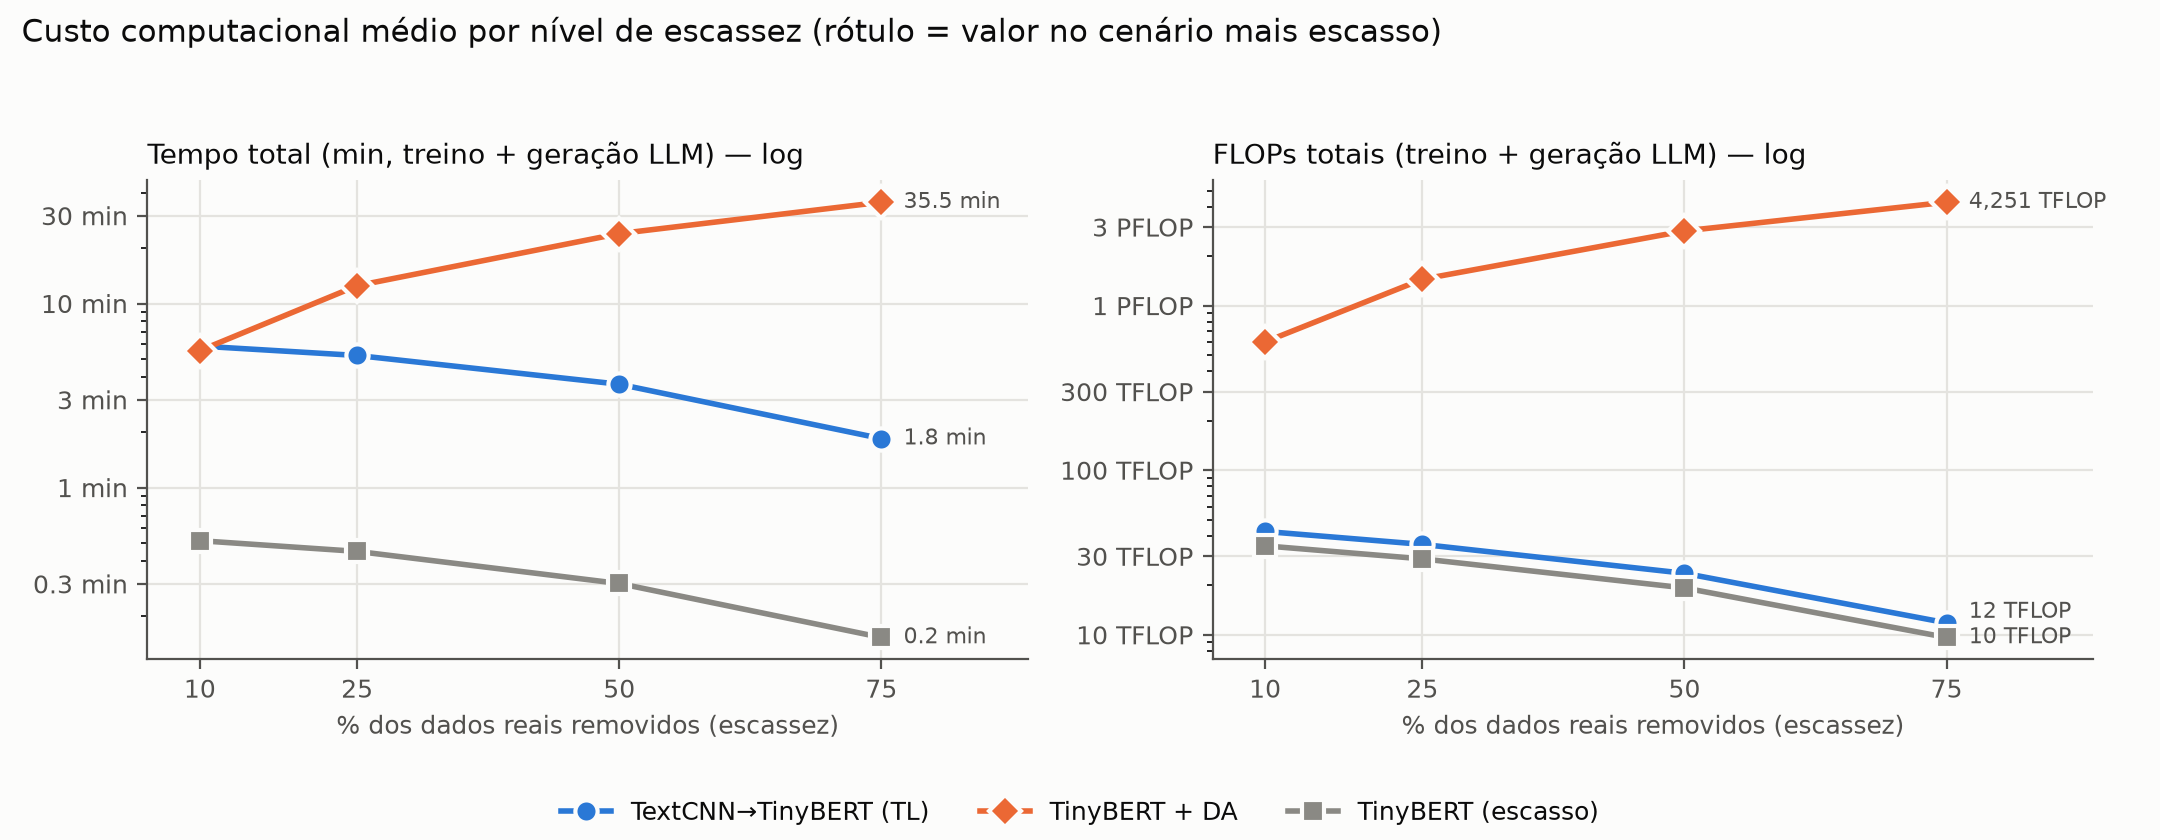
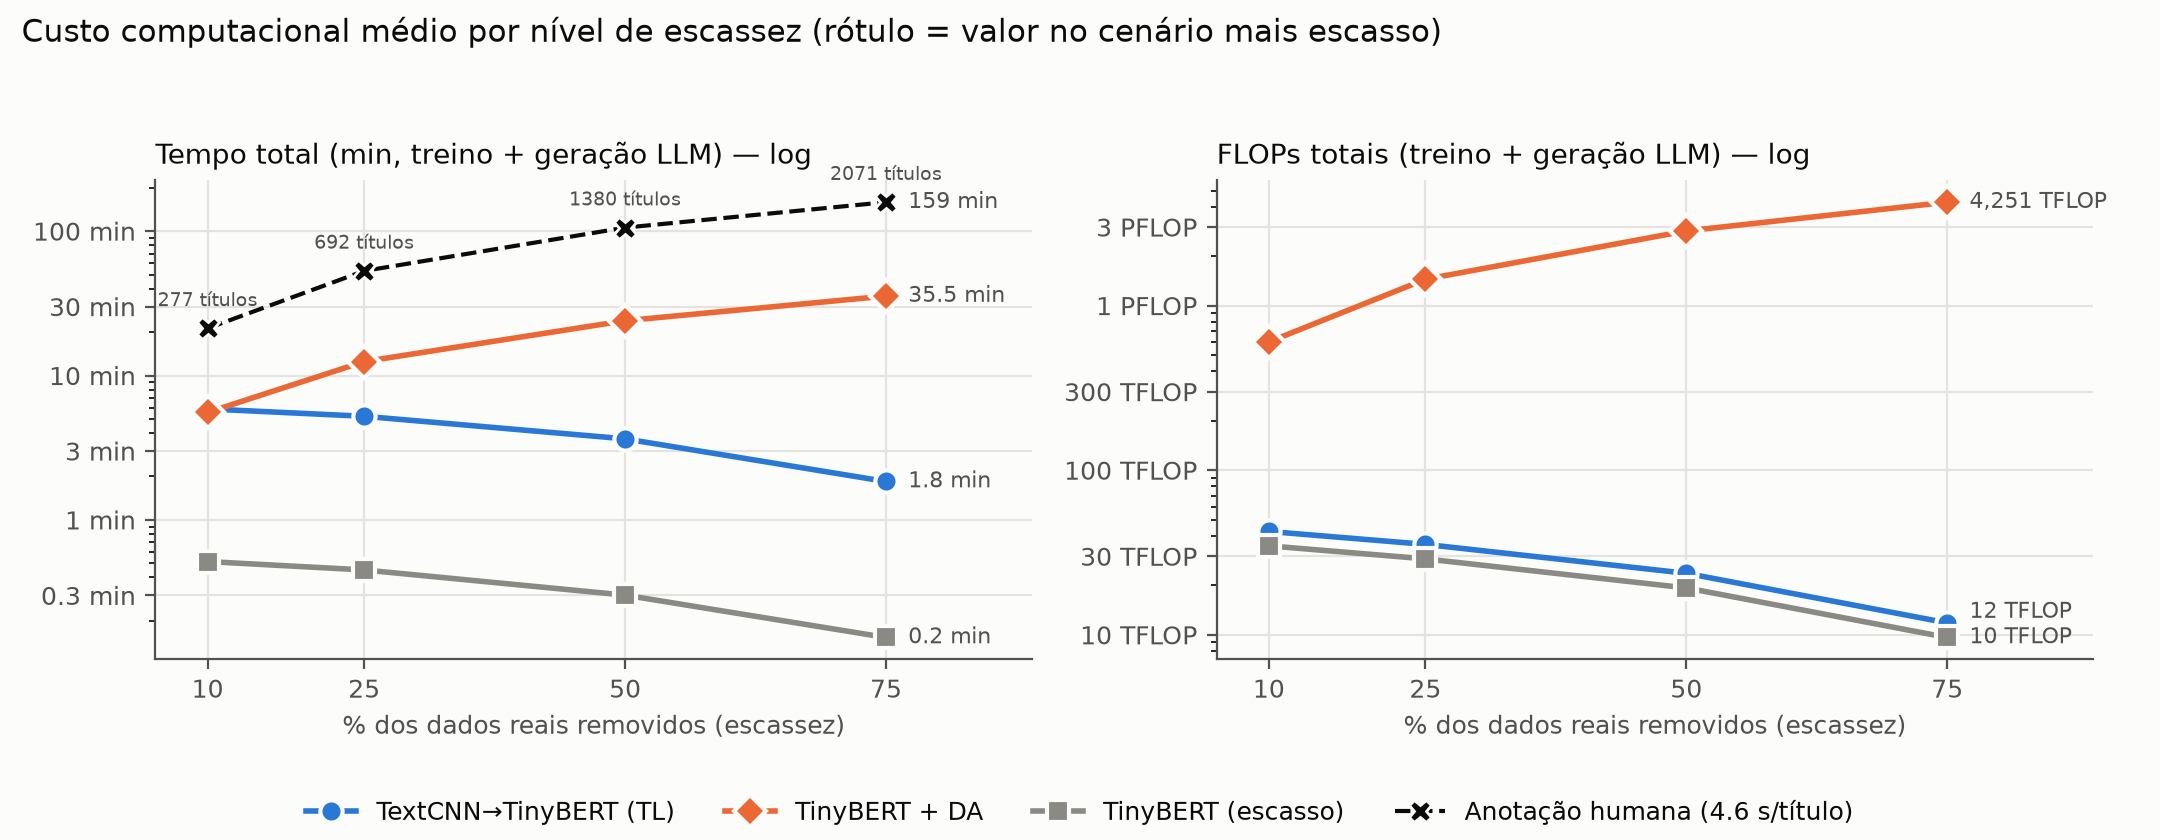
Referência de anotação humana nos gráficos de tempo
- HUMAN_ANNOTATION_SEC_PER_SAMPLE = 4.6 s/título em config.py
- fig_cost_by_ratio: série de anotação humana no painel de tempo
- fig_f1_vs_cost_total_time_s: linha vertical do tempo de anotação por cenário
- fig_time_f1_human (nova): tempo total e F1 lado a lado por cenário,
  anotação humana como resultado ótimo de referência (sem F1 definido)

diff --git a/src/analysis.py b/src/analysis.py
@@ -24,6 +24,7 @@ from scipy.stats import wilcoxon  # noqa: E402
 from config import (  # noqa: E402
     BOOTSTRAP_ITERATIONS,
     COST_METRICS,
+    HUMAN_ANNOTATION_SEC_PER_SAMPLE,
     LABEL_NAMES,
     NON_INFERIORITY_MARGIN,
     PRIMARY_CONTRAST,
@@ -264,6 +265,18 @@ def _first_column(axes) -> list[plt.Axes]:
     return [ax for ax in axes if ax.get_subplotspec().is_first_col()]
 
 
+def _human_annotation(runs: pd.DataFrame) -> pd.DataFrame:
+    """Tempo para anotadores humanos rotularem o mesmo nº de títulos que o DA gera, por ratio."""
+    aug = runs[(runs["arm"] == "tinybert_augmented") & (runs["ratio"] > 0)]
+    n = aug.groupby("ratio")["n_synthetic"].mean().round().astype(int)
+    return pd.DataFrame({"ratio": n.index, "n": n.to_numpy(),
+                         "seconds": n.to_numpy() * HUMAN_ANNOTATION_SEC_PER_SAMPLE})
+
+
+HUMAN_STYLE = {"color": INK, "marker": "X", "linestyle": "--"}
+HUMAN_LABEL = f"Anotação humana ({HUMAN_ANNOTATION_SEC_PER_SAMPLE:g} s/título)"
+
+
 def _pareto(points: pd.DataFrame, cost: str) -> pd.DataFrame:
     """Pontos não-dominados (menor custo, maior F1)."""
     front, best = [], -np.inf
@@ -291,6 +304,8 @@ def plot_f1_vs_cost(runs: pd.DataFrame, cost: str, out: Path) -> None:
     if stats[cost].isna().all():
         return
     full = stats[stats["arm"] == "tinybert_full"]
+    # anotação humana só entra no eixo de tempo total (alternativa à geração LLM, sem FLOPs)
+    human = _human_annotation(runs) if cost == "total_time_s" else pd.DataFrame(columns=["ratio"])
     # y independente por painel: a comparação aqui é dentro do cenário (entre cenários: fig_f1_by_ratio)
     fig, axes = _figure(len(ratios), width=5.4, height=4.2, sharey=False, max_cols=2)
     for ax, ratio in zip(axes, ratios):
@@ -310,14 +325,26 @@ def plot_f1_vs_cost(runs: pd.DataFrame, cost: str, out: Path) -> None:
             ax.annotate("TinyBERT 100% real", (0.02, full["f1_macro"].iloc[0]), xycoords=("axes fraction", "data"),
                         textcoords="offset points", xytext=(0, 4), fontsize=8, color=INK_2)
         ax.set_xscale("log")
+        h = human[human["ratio"] == ratio]
+        if not h.empty:
+            secs, n = h["seconds"].iloc[0], h["n"].iloc[0]
+            ax.axvline(secs, color=HUMAN_STYLE["color"], linestyle=HUMAN_STYLE["linestyle"], linewidth=1.2,
+                       label=HUMAN_LABEL, zorder=2)
+            ax.annotate(f"anotação humana\n{n} títulos ≈ {secs / 60:.0f} min", (secs, 0.03),
+                        xycoords=("data", "axes fraction"), textcoords="offset points", xytext=(-4, 0),
+                        ha="right", va="bottom", fontsize=8, color=INK,
+                        bbox={"facecolor": SURFACE, "edgecolor": "none", "pad": 1})
+            ax.set_xlim(pts[cost].min() / 1.6, max(pts[cost].max(), secs) * 1.6)
         _log_cost_axis(ax.xaxis, cost)
         ax.set_title(f"{ratio}% dos dados reais removidos", fontsize=10, color=INK, loc="left")
         ax.set_xlabel(COST_LABELS.get(cost, cost) + " — escala log", fontsize=9, color=INK_2)
     for ax in _first_column(axes):
         ax.set_ylabel("F1 macro (média ± dp entre seeds)", fontsize=9, color=INK_2)
     handles, labels = axes[0].get_legend_handles_labels()
+    order = sorted(range(len(labels)), key=lambda i: labels[i] == HUMAN_LABEL)  # referência humana por último
+    handles, labels = [handles[i] for i in order], [labels[i] for i in order]
     legend_h = 0.5 / fig.get_figheight()  # faixa da legenda (0,5 pol.) independente da nº de linhas
-    fig.legend(handles, labels, loc="lower center", ncol=3, frameon=False, fontsize=9,
+    fig.legend(handles, labels, loc="lower center", ncol=min(len(labels), 4), frameon=False, fontsize=9,
                labelcolor=INK, bbox_to_anchor=(0.5, 0))
     fig.suptitle("Performance × custo computacional (pontilhado = fronteira de Pareto)",
                  x=0.01, ha="left", fontsize=11, color=INK)
@@ -512,6 +539,16 @@ def plot_cost_by_ratio(runs: pd.DataFrame, out: Path) -> None:
             last = vals.iloc[-1]
             text = f"{last:.1f} min" if col == "total_time_s" else f"{last / 1e12:,.0f} TFLOP"
             ends.append((s["ratio"].iloc[-1], last, text))
+        if col == "total_time_s":
+            h = _human_annotation(runs)
+            vals = h["seconds"] * scale
+            ax.plot(h["ratio"], vals, color=HUMAN_STYLE["color"], marker=HUMAN_STYLE["marker"],
+                    linestyle=HUMAN_STYLE["linestyle"], markersize=8, linewidth=1.5,
+                    markeredgecolor=SURFACE, markeredgewidth=1.0, label=HUMAN_LABEL)
+            for r, v, n in zip(h["ratio"], vals, h["n"]):
+                ax.annotate(f"{n} títulos", (r, v), textcoords="offset points", xytext=(0, 8),
+                            ha="center", fontsize=7, color=INK_2)
+            ends.append((h["ratio"].iloc[-1], vals.iloc[-1], f"{vals.iloc[-1]:.0f} min"))
         ax.set_yscale("log")
         _log_cost_axis(ax.yaxis, col, time_unit="min")
         ax.set_xticks(ratios)
@@ -520,7 +557,7 @@ def plot_cost_by_ratio(runs: pd.DataFrame, out: Path) -> None:
         ax.set_xlabel("% dos dados reais removidos (escassez)", fontsize=9, color=INK_2)
         ax.set_title(title, fontsize=10, color=INK, loc="left")
     handles, labels = axes[0].get_legend_handles_labels()
-    fig.legend(handles, labels, loc="lower center", ncol=len(arms), frameon=False, fontsize=9,
+    fig.legend(handles, labels, loc="lower center", ncol=len(labels), frameon=False, fontsize=9,
                labelcolor=INK, bbox_to_anchor=(0.5, -0.01))
     fig.suptitle("Custo computacional médio por nível de escassez (rótulo = valor no cenário mais escasso)",
                  x=0.01, ha="left", fontsize=11, color=INK)
@@ -569,6 +606,101 @@ def plot_delta_by_ratio(con: pd.DataFrame, out: Path) -> None:
     fig.tight_layout(rect=(0, 0, 1, 0.94))
     fig.savefig(out, dpi=200, facecolor=SURFACE)
     plt.close(fig)
+
+
+def plot_time_f1_human(runs: pd.DataFrame, out: Path) -> None:
+    """Tempo total e F1 lado a lado, uma linha por método, agrupadas por cenário.
+
+    Anotação humana (hipotética): tempo = n títulos × s/título + treino do TinyBERT no
+    dataset completo (mesmo tamanho do augmentado); F1 não definido — exibido só como resultado ótimo.
+    """
+    human = _human_annotation(runs).set_index("ratio")
+    stats = runs[runs["ratio"] > 0].groupby(["arm", "ratio"]).agg(
+        f1=("f1_macro", "mean"), f1_std=("f1_macro", "std"),
+        time_s=("total_time_s", "mean"), train_s=("train_time_s", "mean"),
+    )
+    order = [a for a in ("tinybert_restricted", "hybrid_restricted", "tinybert_augmented")
+             if a in stats.index.get_level_values("arm")]
+    ratios = sorted(stats.index.get_level_values("ratio").unique())
+
+    rows = []  # (y, ratio, label, color, marker, minutos, f1, f1_std, referência humana)
+    step = len(order) + 2
+    for i, ratio in enumerate(ratios):
+        base = i * step
+        for j, arm in enumerate(order):
+            r = stats.loc[(arm, ratio)]
+            rows.append((base + j, ratio, ARM_LABELS[arm], ARM_STYLE[arm]["color"], ARM_STYLE[arm]["marker"],
+                         r["time_s"] / 60, r["f1"], r["f1_std"], False))
+        train_full = stats.loc[("tinybert_augmented", ratio), "train_s"] if "tinybert_augmented" in order else 0
+        h_min = (human.loc[ratio, "seconds"] + train_full) / 60
+        rows.append((base + len(order), ratio, f"Anotação humana ({int(human.loc[ratio, 'n'])} títulos)",
+                     INK, HUMAN_STYLE["marker"], h_min, np.nan, np.nan, True))
+    d = pd.DataFrame(rows, columns=["y", "ratio", "label", "color", "marker", "minutes", "f1", "f1_std", "assumed"])
+
+    fig, (ax_t, ax_f) = plt.subplots(1, 2, figsize=(12, 0.4 * len(d) + 3.0), sharey=True,
+                                     gridspec_kw={"width_ratios": [1.5, 1], "wspace": 0.05})
+    fig.patch.set_facecolor(SURFACE)
+    for ax in (ax_t, ax_f):
+        _style(ax)
+        ax.grid(False, axis="y")
+        for i, ratio in enumerate(ratios):  # faixa alternada separa os cenários
+            if i % 2 == 0:
+                ax.axhspan(i * step - 1.6, i * step + len(order) + 0.6, color=GRID, alpha=0.45, linewidth=0, zorder=0)
+
+    # Tempo total: barras lineares com o valor escrito
+    t_max = d["minutes"].max()
+    ax_t.barh(d["y"], d["minutes"], color=d["color"], height=0.7, zorder=2)
+    for _, r in d.iterrows():
+        txt = f"{r['minutes']:.1f} min" if r["minutes"] < 10 else f"{r['minutes']:.0f} min"
+        ax_t.text(r["minutes"] + t_max * 0.01, r["y"], txt, va="center", fontsize=8.5,
+                  color=INK, fontweight="bold" if r["assumed"] else "normal")
+    ax_t.set_xlim(0, t_max * 1.15)
+    ax_t.set_xlabel("Tempo total (min) — treino + geração LLM, ou anotação + treino", fontsize=9, color=INK_2)
+    ax_t.set_title("Tempo total", fontsize=10, color=INK, loc="left")
+
+    # F1: ponto ± dp com o valor escrito
+    # F1: barras com eixo recortado (todos os valores ficam acima de x_lo) e valor escrito
+    x_lo = np.floor((d["f1"].min() - 0.05) * 10) / 10
+    x_hi = 1.0
+    for _, r in d.iterrows():
+        if r["assumed"]:  # anotação humana: sem F1 numérico, só a referência de resultado ótimo
+            ax_f.barh(r["y"], x_hi - x_lo, left=x_lo, height=0.7, zorder=2, color=SURFACE,
+                      edgecolor=INK, hatch="///", linewidth=1.2)
+            ax_f.text((x_lo + x_hi) / 2, r["y"], "resultado ótimo (referência)", ha="center", va="center",
+                      fontsize=8.5, color=INK, fontweight="bold", zorder=4,
+                      bbox={"facecolor": SURFACE, "edgecolor": "none", "pad": 2})
+            continue
+        ax_f.barh(r["y"], r["f1"] - x_lo, left=x_lo, height=0.7, zorder=2, color=r["color"])
+        if not np.isnan(r["f1_std"]):
+            ax_f.errorbar(r["f1"], r["y"], xerr=r["f1_std"], color=INK_2, linewidth=1, capsize=2.5,
+                          fmt="none", zorder=3)
+        right = r["f1"] + (0 if np.isnan(r["f1_std"]) else r["f1_std"])
+        ax_f.text(right + 0.004, r["y"], f"{r['f1']:.3f}", va="center", fontsize=8.5, color=INK)
+    ax_f.set_xlim(x_lo, x_hi)
+    ax_f.set_xlabel(f"F1 macro (média ± dp entre seeds) — eixo começa em {x_lo:g}", fontsize=9, color=INK_2)
+    ax_f.set_title("F1 macro", fontsize=10, color=INK, loc="left")
+
+    ax_t.set_yticks(d["y"], d["label"], fontsize=9)
+    for tick, color in zip(ax_t.get_yticklabels(), d["color"]):
+        tick.set_color(color)
+    ax_t.set_ylim(d["y"].max() + 0.8, -1.8)  # invertido, com espaço para o 1º cabeçalho
+    ax_t.tick_params(axis="y", length=0)
+    ax_f.tick_params(axis="y", length=0)
+    for i, ratio in enumerate(ratios):  # cabeçalho de cada grupo na linha vazia acima dele
+        ax_t.text(0.005, i * step - 1.05, f"Cenário: {ratio}% dos dados reais removidos",
+                  transform=ax_t.get_yaxis_transform(), ha="left", va="center",
+                  fontsize=10, color=INK, fontweight="bold")
+
+    fig.suptitle("Tempo total × F1 por cenário de escassez: TL, DA e anotação humana",
+                 x=0.01, y=0.985, ha="left", fontsize=12, color=INK)
+    fig.text(0.01, 1 - 0.5 / fig.get_figheight(),
+             f"Anotação humana = títulos removidos × {HUMAN_ANNOTATION_SEC_PER_SAMPLE:g} s + treino do TinyBERT no "
+             "dataset completo. No F1, a anotação humana aparece só como resultado ótimo de referência (sem valor definido).",
+             ha="left", fontsize=8.5, color=INK_2)
+    fig.subplots_adjust(left=0.2, right=0.98, top=1 - 0.95 / fig.get_figheight(), bottom=0.6 / fig.get_figheight())
+    fig.savefig(out, dpi=200, facecolor=SURFACE)
+    plt.close(fig)
+
 
 
 # ---------------------------------------------------------------------------
@@ -677,7 +809,11 @@ def write_report(runs: pd.DataFrame, con: pd.DataFrame, eff: pd.DataFrame, resul
         "- `fig_cost_breakdown.png` — composição do custo",
         "- `fig_delta_f1_forest.png` — ΔF1 pareado com IC 95%",
         "- `fig_ce_plane.png` — plano custo-efetividade TL vs DA (ΔF1 × razão de custo), um ponto por escassez",
-        "- `fig_cost_by_ratio.png` — custo total (tempo e FLOPs) de cada braço ao longo da escassez",
+        "- `fig_cost_by_ratio.png` — custo total (tempo e FLOPs) de cada braço ao longo da escassez; "
+        f"no painel de tempo, referência de anotação humana ({HUMAN_ANNOTATION_SEC_PER_SAMPLE:g} s/título "
+        "× nº de títulos sintéticos do cenário)",
+        "- `fig_time_f1_human.png` — tempo total × F1 de TL, DA, TinyBERT escasso e anotação humana "
+        "(anotação humana como resultado ótimo de referência, sem F1 definido)",
         "- `fig_delta_f1_by_ratio.png` — ganho de TL e DA sobre o TinyBERT escasso e confronto TL − DA por escassez",
         "",
     ]
@@ -714,5 +850,6 @@ def run(results_dir: Path) -> None:
     plot_ce_plane(con, results_dir / "fig_ce_plane.png")
     plot_cost_by_ratio(runs, results_dir / "fig_cost_by_ratio.png")
     plot_delta_by_ratio(con, results_dir / "fig_delta_f1_by_ratio.png")
+    plot_time_f1_human(runs, results_dir / "fig_time_f1_human.png")
     write_report(runs, con, eff, results_dir)
     logger.info("Relatório → %s", results_dir / "report.md")

diff --git a/config.py b/config.py
@@ -105,6 +105,12 @@ MONITOR_INTERVAL_S = 0.2       # amostragem de memória
 # valor. None = não medido (a análise usa apenas FLOPs para o custo da geração).
 GENERATION_SEC_PER_SENTENCE: float | None = None
 
+# Referência humana: tempo médio para um anotador rotular 1 título do dataset.
+# Nos gráficos de tempo, o custo de anotar à mão o mesmo nº de títulos que o
+# DA gera (n_synthetic do cenário) = n × este valor. Só tempo de anotação,
+# sem treino nem FLOPs.
+HUMAN_ANNOTATION_SEC_PER_SAMPLE = 4.6
+
 # Geração ao vivo no braço DA: em cada seed o llama3.1 gera as frases sintéticas
 # via Ollama (cronometrado) e o dataset augmentado = restrito + sintético novo.
 # O custo do DA passa a ser tempo TOTAL real (geração + treino). False = usa os

diff --git a/results/report.md b/results/report.md
@@ -167,5 +167,6 @@ Frequência entre runs:
 - `fig_cost_breakdown.png` — composição do custo
 - `fig_delta_f1_forest.png` — ΔF1 pareado com IC 95%
 - `fig_ce_plane.png` — plano custo-efetividade TL vs DA (ΔF1 × razão de custo), um ponto por escassez
-- `fig_cost_by_ratio.png` — custo total (tempo e FLOPs) de cada braço ao longo da escassez
+- `fig_cost_by_ratio.png` — custo total (tempo e FLOPs) de cada braço ao longo da escassez; no painel de tempo, referência de anotação humana (4.6 s/título × nº de títulos sintéticos do cenário)
+- `fig_time_f1_human.png` — tempo total × F1 de TL, DA, TinyBERT escasso e anotação humana (anotação humana como resultado ótimo de referência, sem F1 definido)
 - `fig_delta_f1_by_ratio.png` — ganho de TL e DA sobre o TinyBERT escasso e confronto TL − DA por escassez
